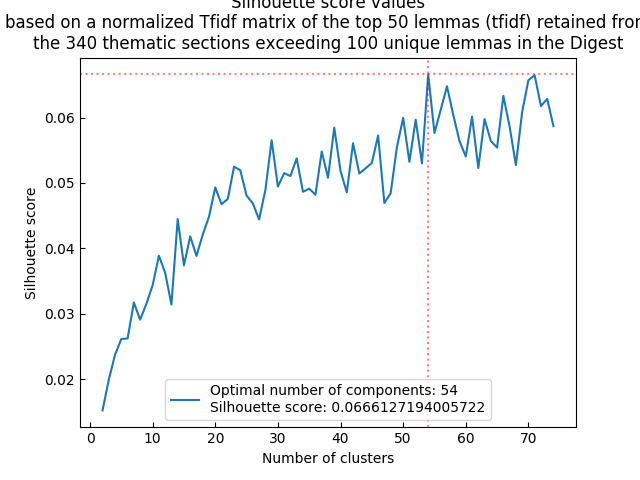
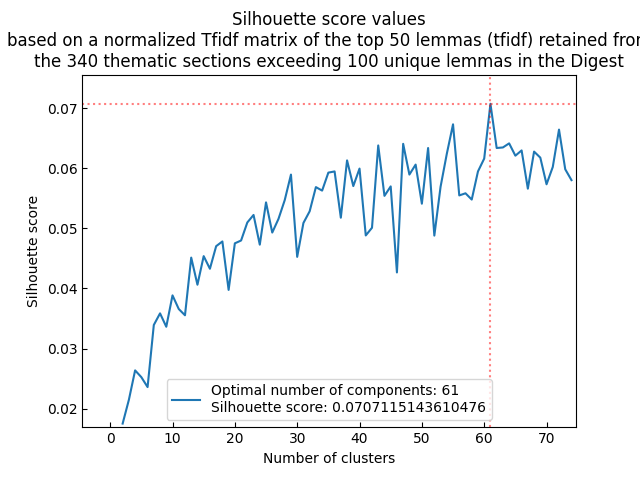
K-means silhouette update

diff --git a/script/K-means_norm_top50_001.py b/script/K-means_norm_top50_001.py
@@ -11,9 +11,9 @@ sf = pd.read_csv('./dump/tfidf_sections_norm_top50.csv', index_col=0)
 tf = pd.read_csv('./dump/tfidf_titles_norm.csv', index_col=0)
 
 # Extract matrix from dataframe
-X = np.array(sf.values)         # Tfidf matrix of shape 340 (sections) x 3868 (terms)
+X = np.array(sf.values)         # Tfidf matrix of shape xxx (sections) x xxx (terms)
 section_IDs = list(sf.index)    # List for section_IDs
-# X.shape
+print(X.shape)
 
 # Generate silhouette scores for the range between 2 and 75 clusters
 NumberOfClusters=range(2,75)

diff --git a/NLP_documetation.md b/NLP_documetation.md
@@ -96,9 +96,9 @@ _*Rerun and rewrite* Clusters produced at cuts specified in the previous step ar
 
 `K-means_silhouette_norm_top50.py > silhouette_scores_norm_top50.txt, norm_top50_silhouette_2to75.png`
 
-The script loads the normalized dataframe (340 theamtic sections, top 50 lemmas only) and the Tfidf matrices of sections and titles. In order to determine the number of clusters (K), the script gets the silhouette scores for clustering between a range of 2 and 75. The silhouette score measures the inner density of clusters against the outer distance between them, so that a score close 1 means perfect and 0 means totally unreliable clustering. The score 1 can only be achieved when the number of clusters (K) is equal to the number of samples being clustered.
+The script loads the normalized dataframe (339 theamtic sections, top 50 lemmas only) and the Tfidf matrices of sections and titles. In order to determine the number of clusters (K), the script gets the silhouette scores for clustering between a range of 2 and 75. The silhouette score measures the inner density of clusters against the outer distance between them, so that a score close 1 means perfect and 0 means totally unreliable clustering. The score 1 can only be achieved when the number of clusters (K) is equal to the number of samples being clustered.
 
-Silhouette scores take a long time to compute, beacuse the K-means algorithm approximates its result in multiple iterations which are here set to 300. As the algorithm starts from a random state and iterations are stopped at 300, running the algorithm multiple times procduces different results. After the fifth running, the silhouette score suggests that the optimal number of clusters is 54 at a score of 0.0666. The graph below shows how the silhouette score changes as we cluster datapoints in the range between 2 and 75.
+Silhouette scores take a long time to compute, beacuse the K-means algorithm approximates its result in multiple iterations which are here set to 300. As the algorithm starts from a random state and iterations are stopped at 300, running the algorithm multiple times procduces different results. After the fifth running, the silhouette score suggests that the optimal number of clusters is 61 at a score of 0.0707. The graph below shows how the silhouette score changes as we cluster datapoints in the range between 2 and 75.
 
 ![Silhouette graph](https://github.com/mribary/pyDigest/blob/master/images/norm_top50_silhouette_2to75.png)
 
